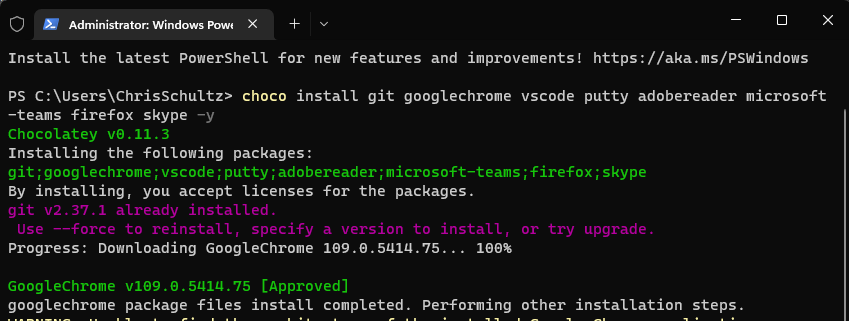
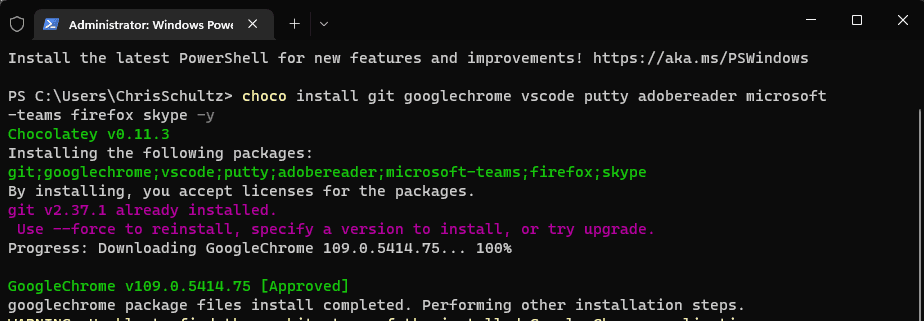
Fixed email template + images sizes /win-up-and-running (#4971)
* Update rule.md

* Add files via upload

* Delete ssw-skin.jpg

* Add files via upload

diff --git a/rules/do-you-know-the-quickest-way-to-get-your-windows-soe-up-and-running/rule.md b/rules/do-you-know-the-quickest-way-to-get-your-windows-soe-up-and-running/rule.md
@@ -28,19 +28,19 @@ The next step is to get the Standard Operating Environment (SOE) installed. You 
 
 <!--endintro-->
 
-### Use a package manager ([Do you use a package manager?](https://www.ssw.com.au/rules/do-you-use-a-package-manager/))
+### Use a package manager ([Do you use a package manager?](/do-you-use-a-package-manager))
 
 Assuming that Windows is already installed, then get your SOE installed fast by following these steps:
 
 1. Logon and configure Windows
 2. (Optional) Join the Domain
 3. Install Windows Updates
-4. Install driver & firmware updates (tip: use an app from the manufacturer, e.g. [Intel DSA](https://www.intel.com.au/content/www/au/en/support/detect.html))
+4. Install driver & firmware updates (Tip: use an app from the manufacturer, e.g. [Intel DSA](https://www.intel.com.au/content/www/au/en/support/detect.html))
 5. Run a script to get printers, Word templates, etc.
 6. Install and run a Chocolatey script to get most of the software
 7. Install any software not supported by Chocolatey
 8. In case you lose your laptop, it is a good idea to stick a business card to the underneath
-9. For branding, stick your company sticker to the laptop - or even better, a custom skin - see [Do you brand your assets?](https://www.ssw.com.au/rules/brand-your-assets/)
+9. For branding, stick your company sticker to the laptop - or even better, a custom skin - see [Do you brand your assets?](/brand-your-assets)
 
 ![Figure: Example login/branding script](login-script.png)
 
@@ -53,13 +53,13 @@ Assuming that Windows is already installed, then get your SOE installed fast by 
 ::: email-template
 |          |     |
 | -------- | --- |
-| To:      | Bob Northwind|
+| To:      | Bob Northwind |
 | Subject: | Your new computer |
 ::: email-content  
 
 ### Hey Bob,
 
-Your new computer is ready. ⭐  
+Your new computer is ready ⭐  
 
 * Machine name: Bob-SurfacePro9
 * Model: Surface Pro 9
@@ -83,6 +83,7 @@ Now I need you to do (we can do this together if you are stuck, just give me a c
 1. Now login and check Microsoft - Teams App, Outlook
 2. Check Google - Chrome will bring back your bookmarks
 3. Plugin external monitors - Configure your screens
-4. Run the templates script - Follow [Logon - Do you have a company-wide Word template?](https://www.ssw.com.au/rules/have-a-companywide-word-template) 
+4. Run the templates script - Follow [Logon - Do you have a company-wide Word template?](/have-a-companywide-word-template) 
 
+:::
 :::
